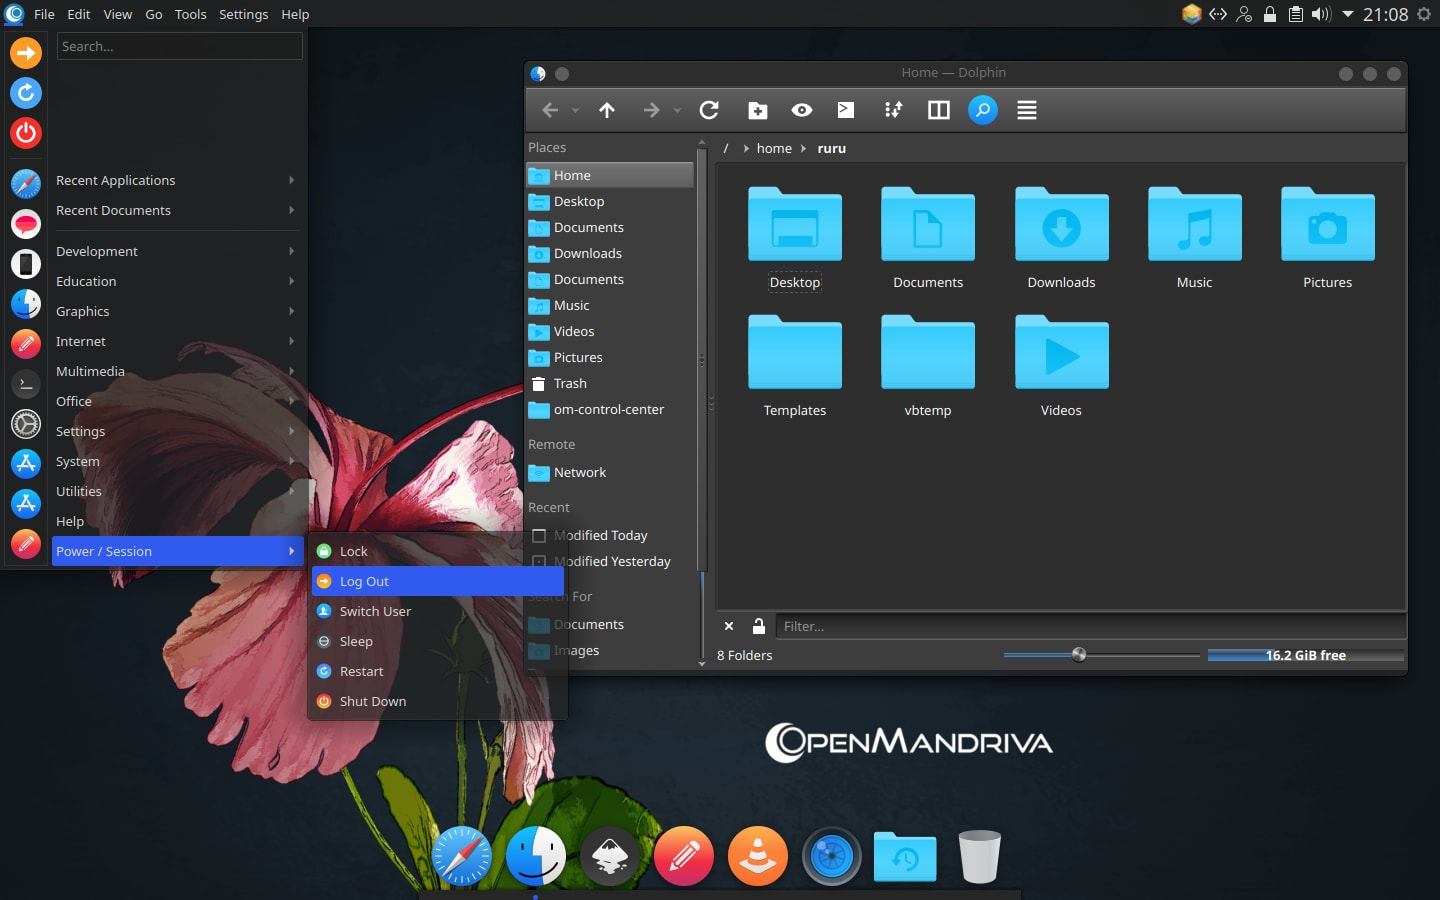
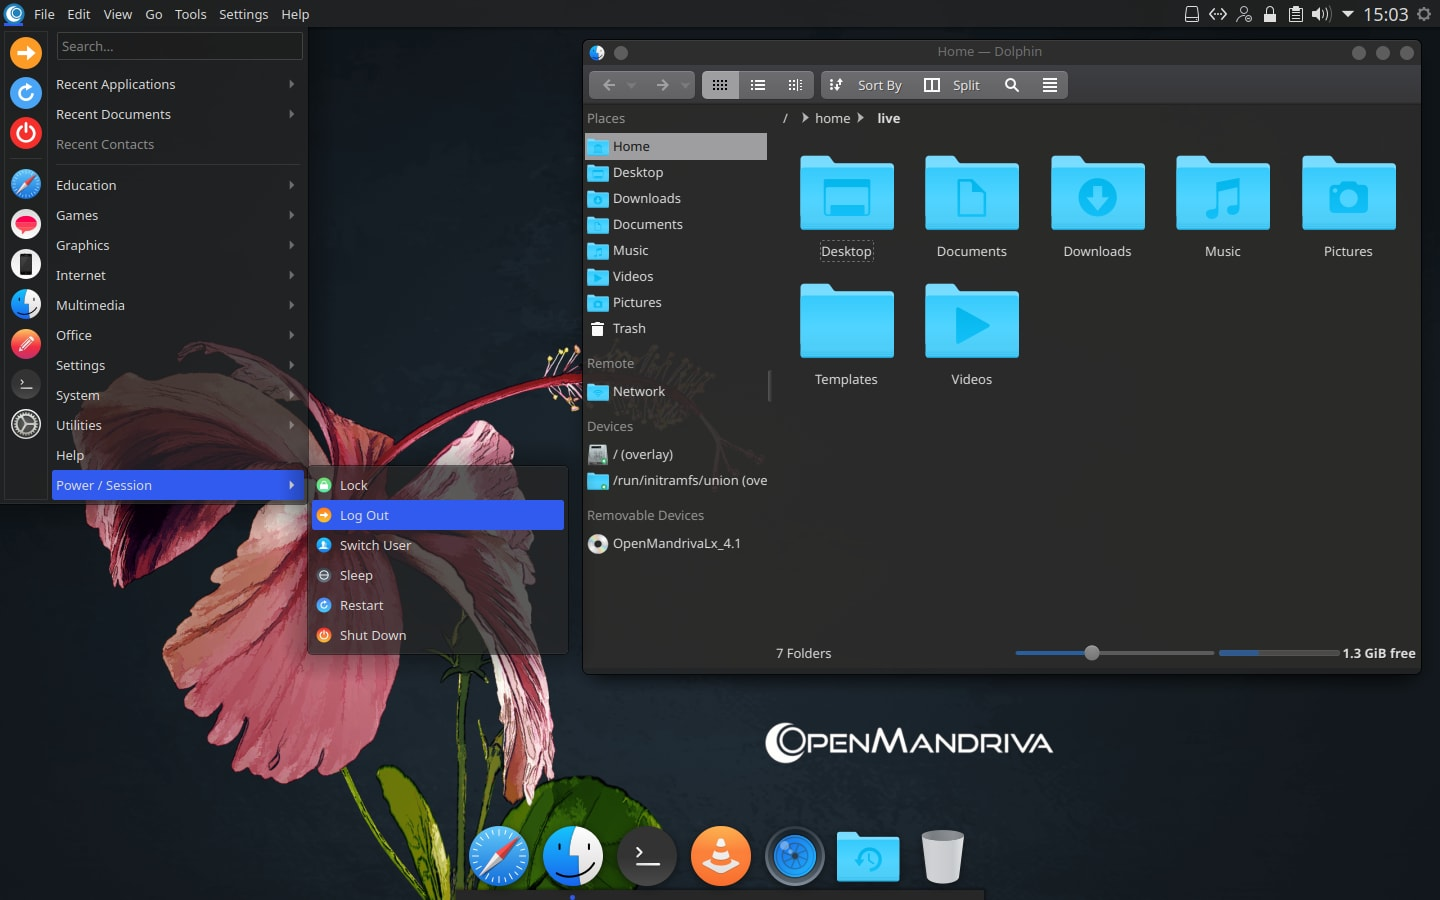
Update screenshots

Changed region(s): [[0.0, 0.0, 1.0, 0.84], [0.2812, 0.9022, 0.7188, 1.0], [0.4688, 0.6844, 0.5938, 0.7467]]

diff --git a/presets/OpenMandriva/description.html b/presets/OpenMandriva/description.html
@@ -14,7 +14,7 @@
 			<i>Mouse click:</i> Single click</p>
 		</td>
 		<td>
-			<img src="screenshot.png" width="192" height="108" />
+			<img src="screenshot.jpg" width="192" height="108" />
 		</td>
 	</tr>
 </table>

diff --git a/presets/Plasma/description.html b/presets/Plasma/description.html
@@ -14,7 +14,7 @@
 			<i>Mouse click:</i> Double click</p>
 		</td>
 		<td>
-			<img src="screenshot.png" width="192" height="108" />
+			<img src="screenshot.jpg" width="192" height="108" />
 		</td>
 	</tr>
 </table>

diff --git a/presets/Windows/description.html b/presets/Windows/description.html
@@ -14,7 +14,7 @@
 			<i>Mouse click:</i> Double click</p>
 		</td>
 		<td>
-			<img src="screenshot.png" width="192" height="108" />
+			<img src="screenshot.jpg" width="192" height="108" />
 		</td>
 	</tr>
 </table>
